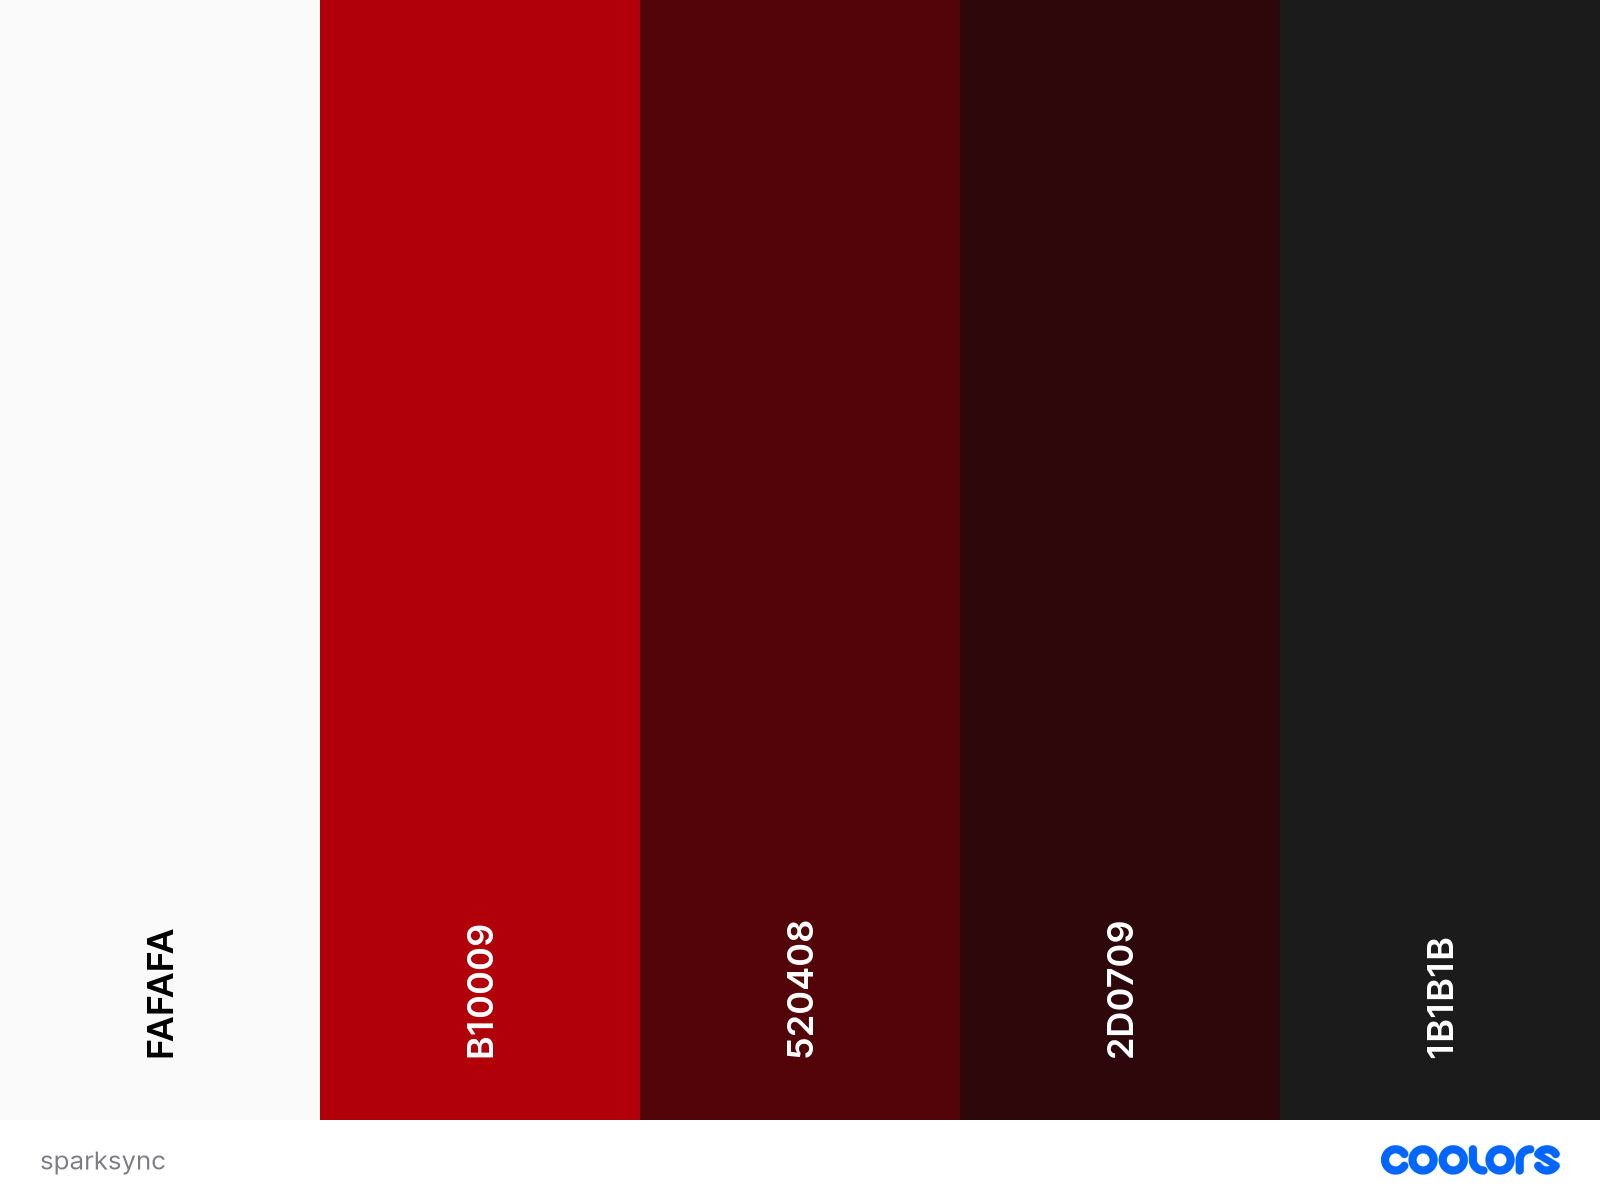
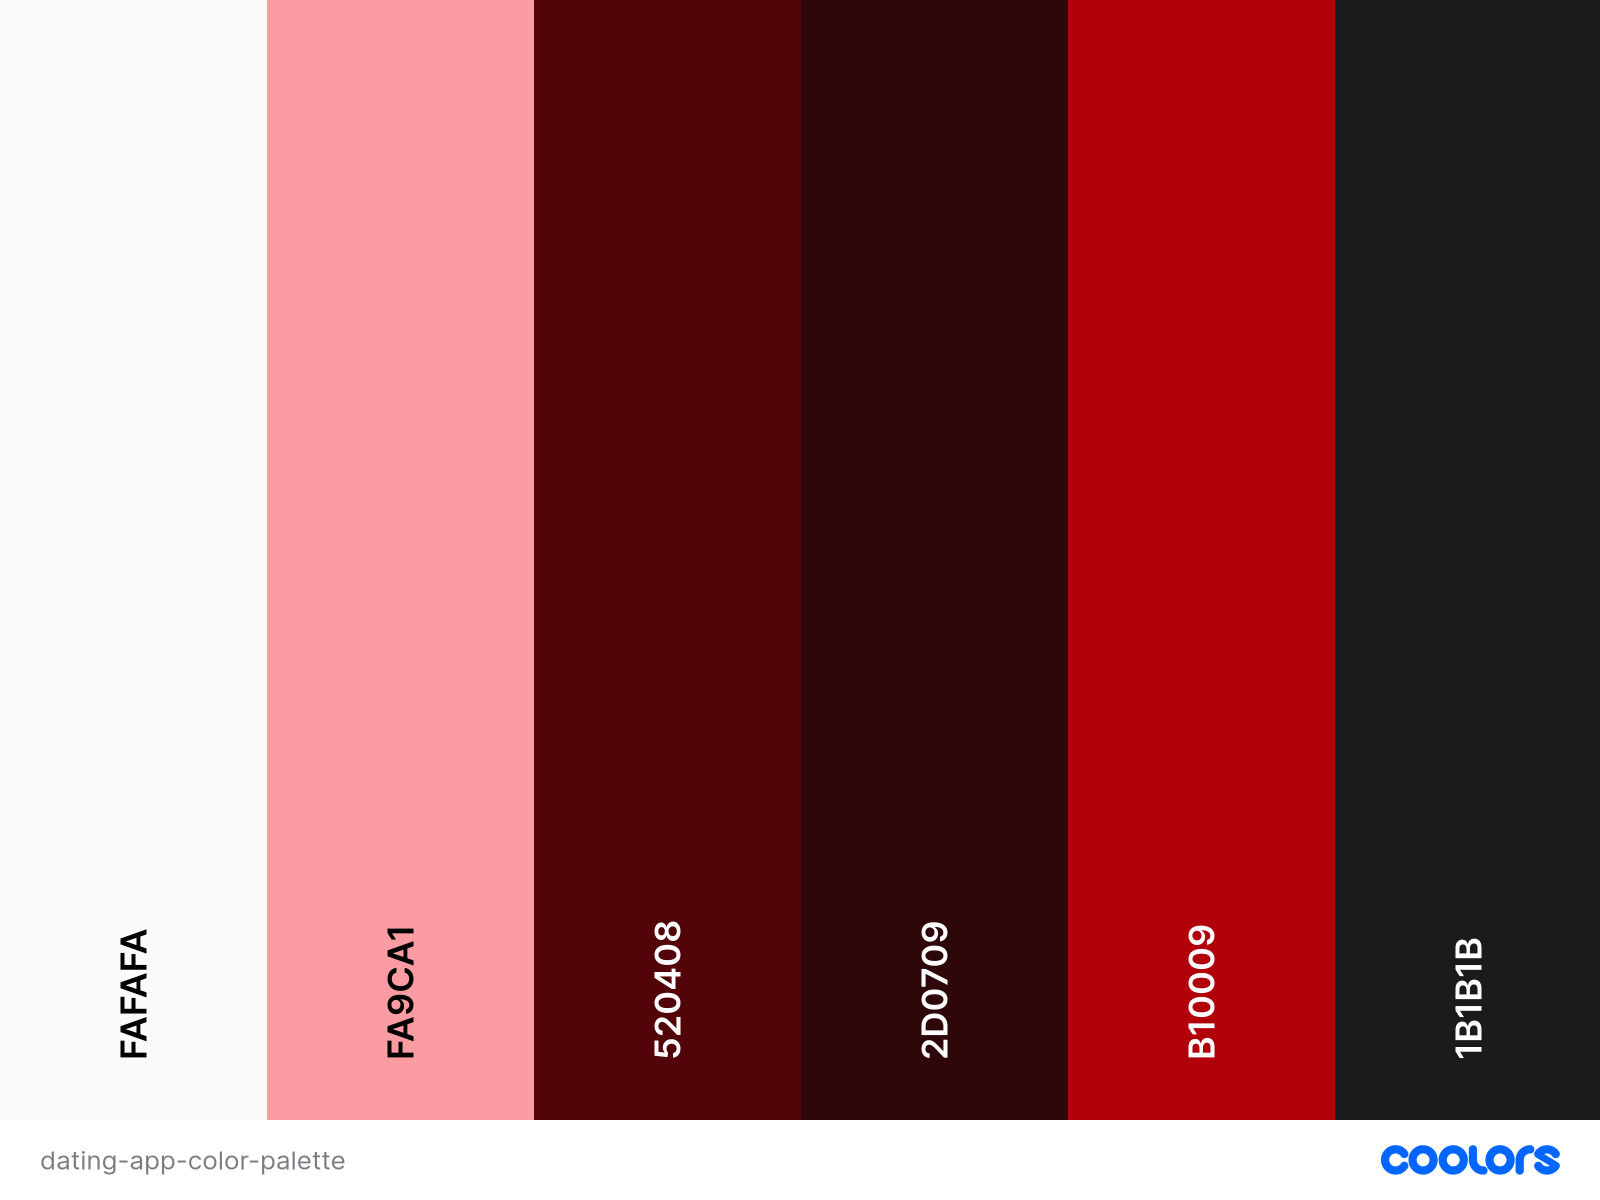
chore: update readme, collect static, set debug to false

diff --git a/staticfiles/css/style.css b/staticfiles/css/style.css
@@ -277,6 +277,14 @@ body .container h1:first-of-type {
 @media (max-width: 768px) {
   .logo {
     width: 50px;
-    /* Reduce size on smaller screens */
+  }
+}
+
+@media (max-width: 991px) {
+  .mobile-link {
+    padding-top: 1rem;
+  }
+  nav {
+    text-align: center;
   }
 }

diff --git a/dating_app/settings.py b/dating_app/settings.py
@@ -39,8 +39,8 @@ ALLOWED_HOSTS = ['localhost', '127.0.0.1', '.herokuapp.com']
 # Application definition
 
 INSTALLED_APPS = [
-    #'daphne',
-    #'channels',
+    'daphne',
+    'channels',
     'django.contrib.admin',
     'django.contrib.auth',
     'django.contrib.contenttypes',

diff --git a/README.md b/README.md
@@ -14,46 +14,210 @@
     + [**Target Audience**](#target-audience)
 * [**Pages**](#pages)
 * [**Tech Stack**](#tech-stack)
+    + [**Languages & Frameworks**](#languages--frameworks)
+    + [**Database**](#database)
+    + [**Authentication**](#authentication)
+    + [**Styling & Fonts**](#styling--fonts)
+    + [**Real-time Features**](#real-time-features)
+    + [**Deployment & Services**](#deployment--services)
+    + [**Development Tools**](#development-tools)
+    + [**Additional Libraries**](#additional-libraries)
+    + [**Email Provider**](#email-provider)
+* [**Design**](#design)
+    + [**Color Palette**](#color-palette)
+    + [**Typography**](#typography)
 * [**Future Development**](#future-development)
+    + [**Enhanced Matching Algorithm**](#future-development)
+    + [**Advanced Communication Features**](#advanced-communication-features)
+    + [**Profile Enhancements**](#profile-enhancements)
+    + [**Safety & Privacy**](#safety--privacy)
+    + [**User Experience**](#user-experience)
+    + [**Premium Features**](#premium-features)
+    + [**Community Features**](#community-features)
 * [**Credits**](#credits)
-* [**Media**](#media)
 * [**Testing**](#testing)
 * [**Team**](#team)
 
 ## **About the Submission**  
 
-### **Intro** 
+### **Intro**
+SparkSync is a modern dating application designed to help people form meaningful connections through shared interests, preferences, and compatibility matching. The platform emphasizes authentic interactions and provides a safe, engaging environment for users to meet potential partners.
 
 ### **Deployment**   
 [Deployed link](https://sparksync-7438f8dc8240.herokuapp.com/)
 
 [Kanban board](https://github.com/users/violaberg/projects/12)
 
-### **Goal**    
+### **Goal**
+To create an intuitive, inclusive and secure dating platform that focuses on meaningful connections by matching users based on shared interests, values, and compatibility factors, while providing real-time communication features for natural conversation development.    
 
 ### **Problem Statement**
+Many existing dating apps prioritize superficial connections and quick judgments based primarily on photos. Users often struggle to find meaningful matches that align with their interests and values, leading to unsatisfying experiences and short-lived connections. Additionally, many platforms lack real-time communication features that could help foster more natural relationship development.
 
 ### **Objective(s)**
+- Create a user-friendly platform for relationship-seeking individuals
+- Implement a robust matching system based on shared interests and compatibility
+- Provide secure, real-time chat functionality for matched users
+- Enable users to create detailed profiles that showcase their personality and interests
+- Ensure user privacy and data security throughout the platform
+- Facilitate meaningful connections through interactive features and clear communication channels
 
 ### **Target Audience**
+- Singles who are seeking relationships
+- Users who value personality and shared interests over purely physical attributes
+- Individuals comfortable with technology and online communication
+- People looking for a more authentic dating experience than traditional swipe-based apps
+- Users who prioritize safety and privacy in their online dating experience
 
 ## **Pages**
 
 ## **Tech Stack**  
-- HTML, CSS, JavaScript, Django, Python  
-- Version Control: Git
-- [Bootstrap 5](https://getbootstrap.com/docs/5.3/getting-started/introduction/)
+
+### **Languages & Frameworks**
+
+- Python 3.11
+- Django 5.1.6
+- JavaScript
+- HTML5
+- CSS3
+
+### **Database**
+
+- PostgreSQL (via psycopg2-binary)
+- [Neon database](https://console.neon.tech/)
+
+### **Authentication**
+
+- django-allauth (for user authentication)
+
+### **Styling & Fonts**
+
 - [Google Fonts](https://fonts.google.com)
-- [Neon database](https://console.neon.tech/) - database
-- [Resend](https://resend.com/) - used for contact form
+- Bootstrap 5
+- Crispy Forms with crispy-bootstrap5 for form styling
+
+### **Real-time Features**
+
+- Django Channels 4.2.0
+- Daphne 4.1.2 (ASGI server)
+- Redis (for WebSocket backing store)
+- channels_redis 4.2.1
+
+### **Deployment & Services**
+
+- Heroku
+- WhiteNoise 6.9.0 (static file serving)
+- Cloudinary (if being used for image storage)
+
+### **Development Tools**
+
+- Git & GitHub for version control
+- VS Code IDE
+- python-dotenv for environment variable management
+
+### **Additional Libraries**
+
+- Pillow 11.1.0 (for image processing)
+- django-notifications for user notification system
+
+### **Email Provider**
+
+- [Resend](https://resend.com/)
+
+## **Design**
+
+### **Color Palette**
+
+Our color scheme combines deep, romantic burgundies with neutral tones to create an elegant and intimate atmosphere:
+
+***Charcoal (#1b1b1b)***<br>
+Used for main text providing strong contrast and readability.<br>
+
+***Dark Burgundy (#2D0709)***<br>
+Added to create depth and sophistication.<br>
+
+***Red (#B10009)***<br>
+Accent color for important elements.<br>
+
+***Light Burgundy (#520408)***<br>
+Used for hover states and secondary elements.<br>
+
+***Pink (#fa9ca1)***<br>
+Adds a soft, romantic touch to features.<br>
+
+***Sea Salt (#fafafa)***<br>
+Clean, neutral background color ensuring content stands out
+
+![Color palette](assets/colors/sparksync.png)
+
+### **Typography**
+
+The application uses a carefully selected dual-font system:
+
+***Montserrat***<br>
+A modern sans-serif font used for main content, navigation, and user interface elements. Its clean lines and excellent readability make it perfect for both headlines and body text.
+
+![Montserrat font](assets/fonts/montserrat.png)
+
+***Great Vibes***<br>
+A romantic, script-style font used for logos and special headings. It adds an elegant, sophisticated touch that reinforces the dating app's romantic nature.
+
+![Great vibes font](assets/fonts/great_vibes.png)
 
 ## **Future Development**
+
+### **Enhanced Matching Algorithm**
+
+- Implement AI-powered compatibility scoring
+- Add personality quiz feature for better matches
+- Develop interest-based group matching
+
+### **Advanced Communication Features**
+
+- Voice and video chat integration
+- Message translation for international users
+- Scheduled virtual date planning tool
+
+### **Profile Enhancements**
+
+- Video profile options
+- Profile verification system
+- Social media integration
+- Interactive profile prompts and questions
+
+### **Safety & Privacy**
+
+- Advanced photo verification
+- Block/report system enhancement
+- Privacy settings customization
+- Real-time inappropriate content detection
+
+### **User Experience**
+
+- Mobile app development
+- Dark mode implementation
+- Accessibility improvements
+- Custom notification preferences
+
+### **Premium Features**
+
+- Subscription model implementation
+- Priority matching
+- Advanced filters
+- Profile statistics and insights
+
+### **Community Features**
+
+-Interest-based forums
+- Dating advice blog
+- Success stories section
+- Community events calendar
 
 ## **Credits**
 - [Floating Love Heart Effect](https://codepen.io/1AHV/pen/oPvwQw)
 - [Pulsing Hearts](https://codepen.io/puresick1/pen/popjyG)
-
-## **Media**
+- [Coolors color palette generator](https://coolors.co/)
+- [Background pattern](https://devsnap.me/css-background-patterns?)
 
 ## **Testing**
 
